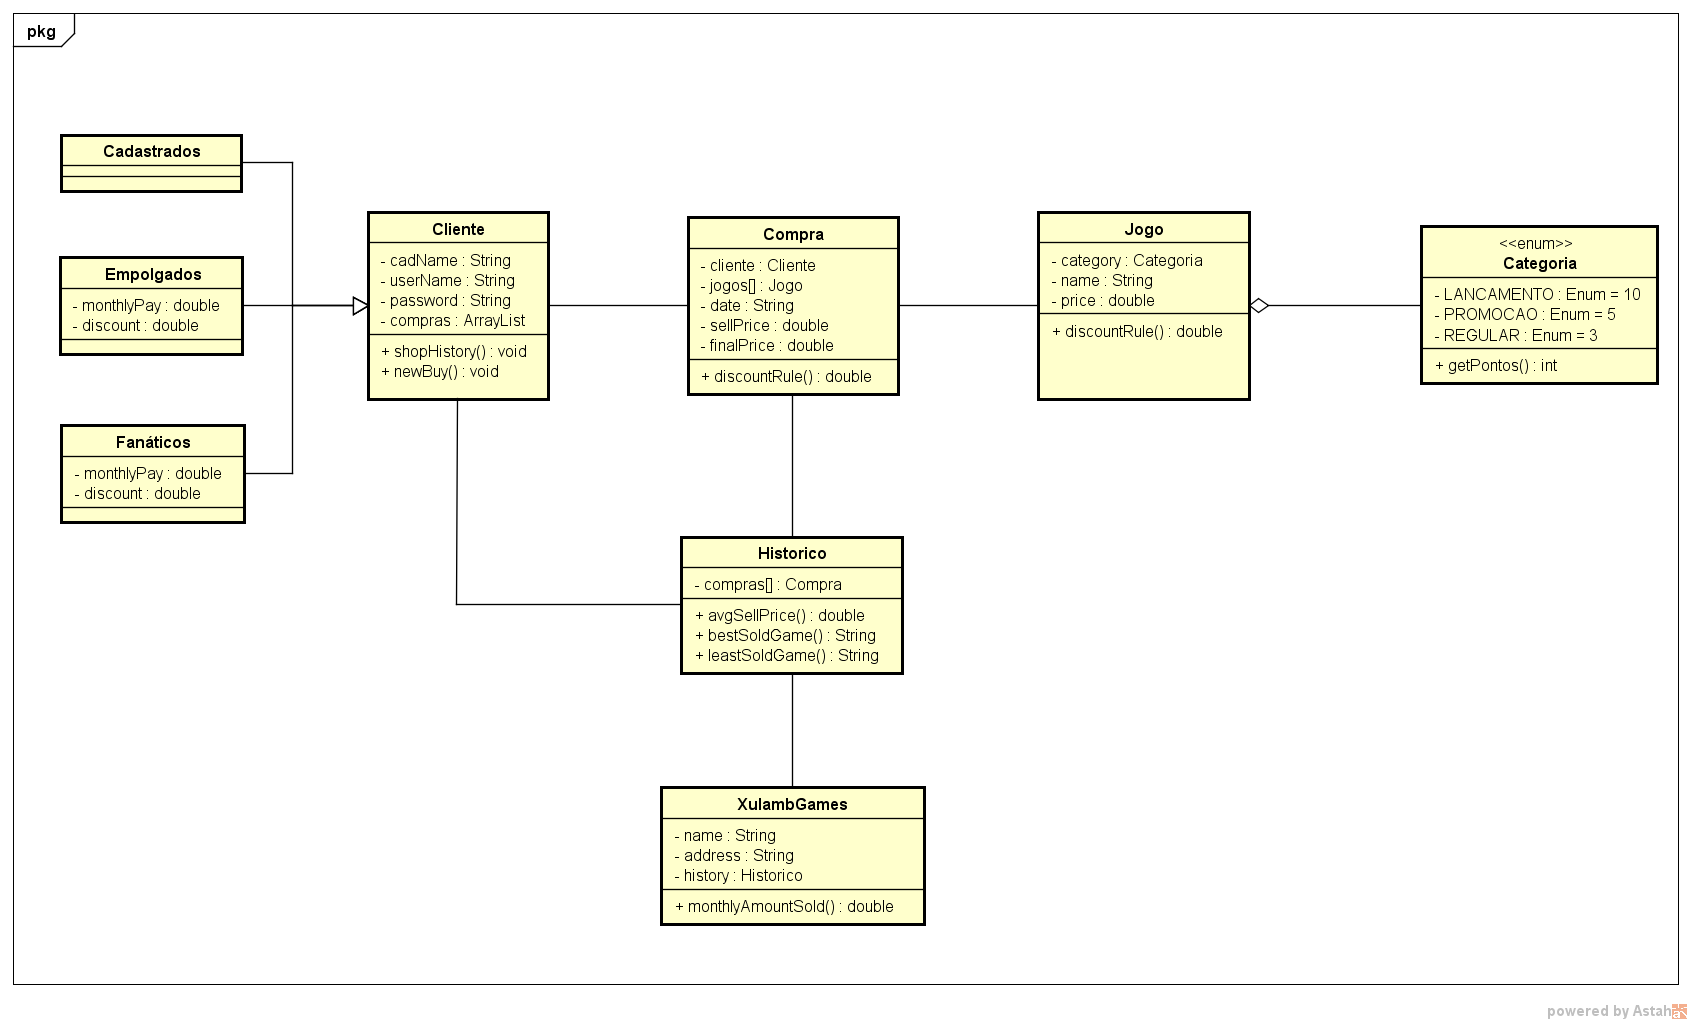
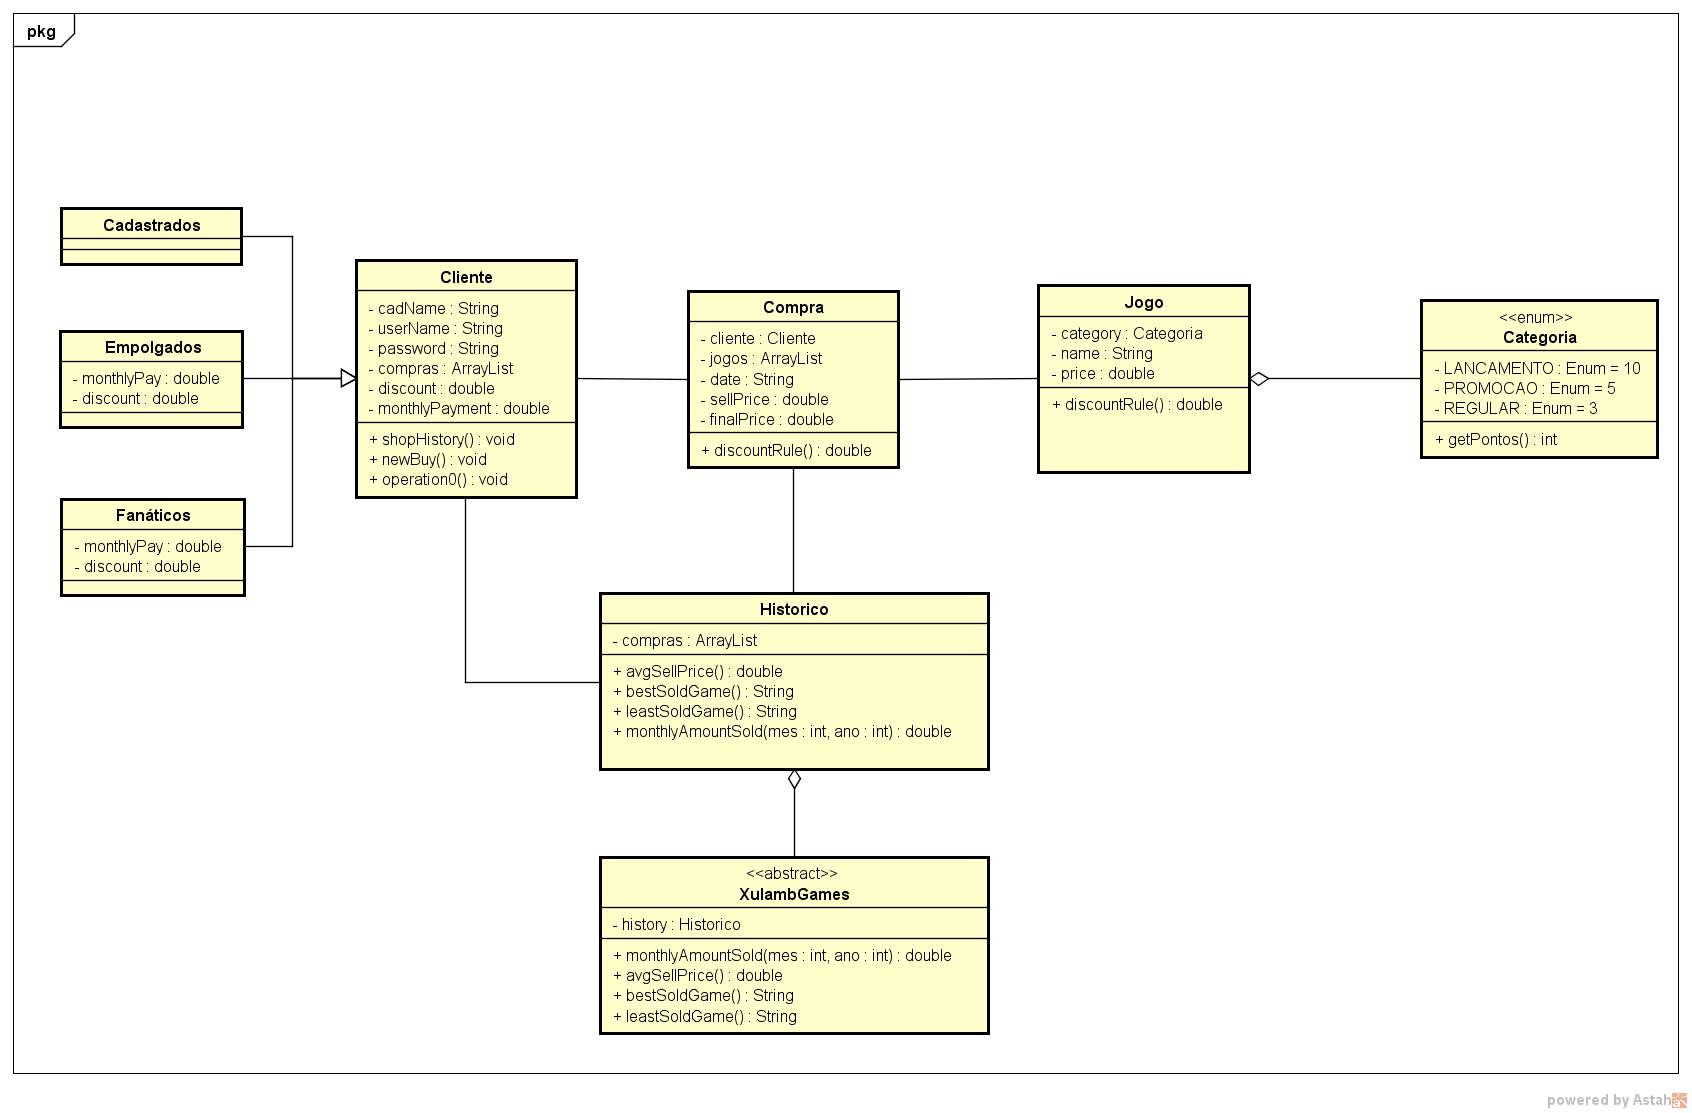
Modificações no projeto
Modificações na classe cliente;
Modificações na classe Compra;
Modificações na classe Empolgado;
Modificações na classe Fanatico;
Modificações no diagrama de classes;

diff --git a/Codigo/src/Cliente.java b/Codigo/src/Cliente.java
@@ -6,6 +6,7 @@ public class Cliente {
     protected String userName;
     protected String password;
     protected double discount;
+    protected double monthlyPayment;
     protected ArrayList<Compra> compras;
 
     public Cliente() {
@@ -18,6 +19,8 @@ public class Cliente {
         this.cadName = cadName;
         this.userName = userName;
         this.password = password;
+        this.discount = 0.0;
+        this.monthlyPayment = 0.0;
     }
 
     public Cliente(String cadName, String userName, String password, ArrayList<Compra> compras) {
@@ -25,6 +28,8 @@ public class Cliente {
         this.userName = userName;
         this.password = password;
         this.compras = compras;
+        this.discount = 0.0;
+        this.monthlyPayment = 0.0;
     }
 
     //Setters
@@ -36,6 +41,9 @@ public class Cliente {
     }
     public void setPassword(String password) {
         this.password = password;
+    }
+    public void setMonthlyPayment(double monthlyPayment) {
+        this.monthlyPayment = monthlyPayment;
     }
     
     //Getters
@@ -53,6 +61,10 @@ public class Cliente {
     
     public double getDiscount() {
         return this.discount;
+    }
+
+    public double getMonthlyPayment() {
+        return this.monthlyPayment;
     }
 
     //Rule methods

diff --git a/Codigo/src/Fanatico.java b/Codigo/src/Fanatico.java
@@ -5,6 +5,7 @@ import java.util.ArrayList;
 public class Fanatico extends Cliente {
     public Fanatico(String name, String userName, String password, ArrayList<Compra> compras){
         super(name, userName, password, compras);
-        this.discount = 0.1;
+        this.discount = 0.3;
+        this.monthlyPayment = 25.0;
     }
 }

diff --git a/Codigo/src/Empolgado.java b/Codigo/src/Empolgado.java
@@ -5,5 +5,7 @@ import java.util.ArrayList;
 public class Empolgado extends Cliente{
     public Empolgado(String name, String userName, String password, ArrayList<Compra> compras){
         super(name, userName, password, compras);
+        this.discount = 0.1;
+        this.monthlyPayment = 10.0;
     }
 }

diff --git a/Codigo/src/Compra.java b/Codigo/src/Compra.java
@@ -76,7 +76,7 @@ public class Compra {
     }
     
     public double getTotalPrice() {
-        return this.games.stream().mapToDouble(Jogo::getPreco()).sum();
+        return this.games.stream().mapToDouble(Jogo::getPrice).sum();
     }
 
     public double getFinalPrice() {
